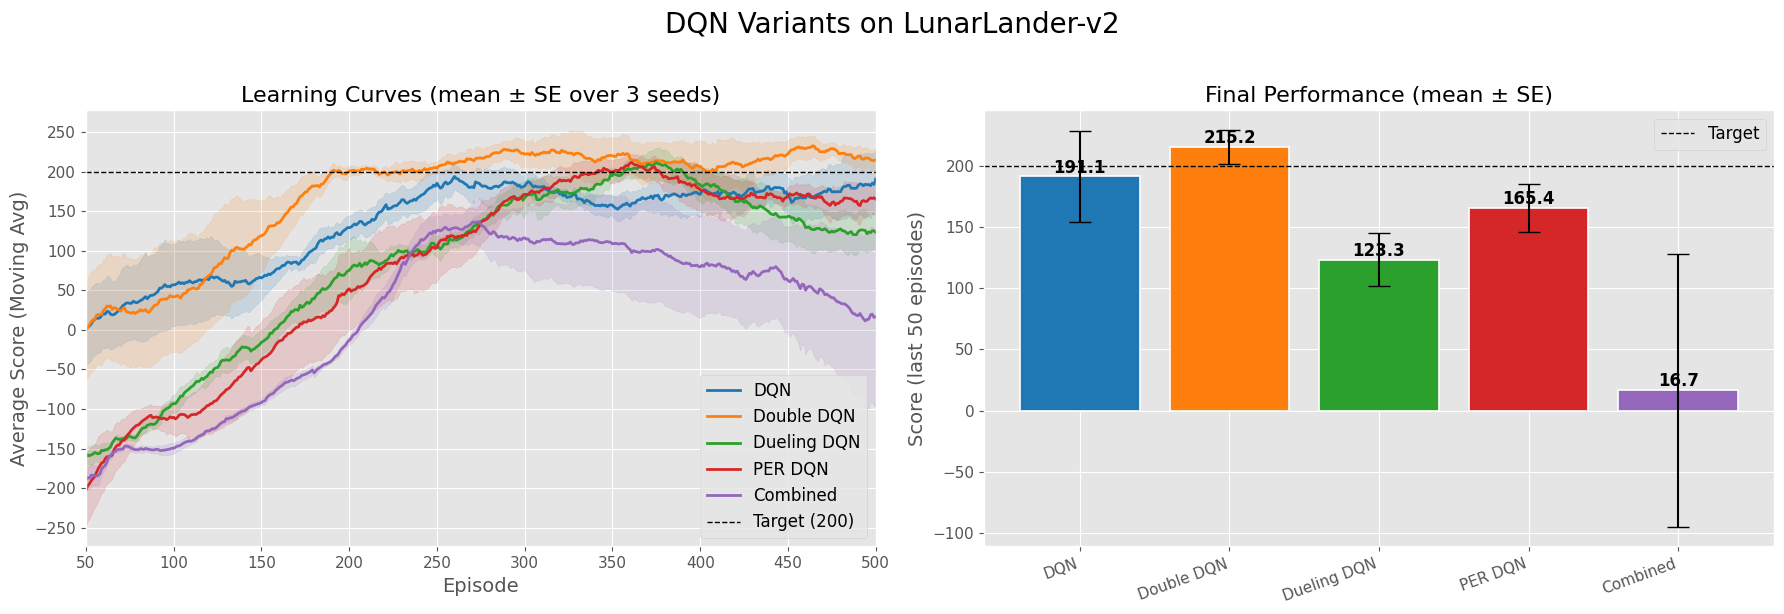
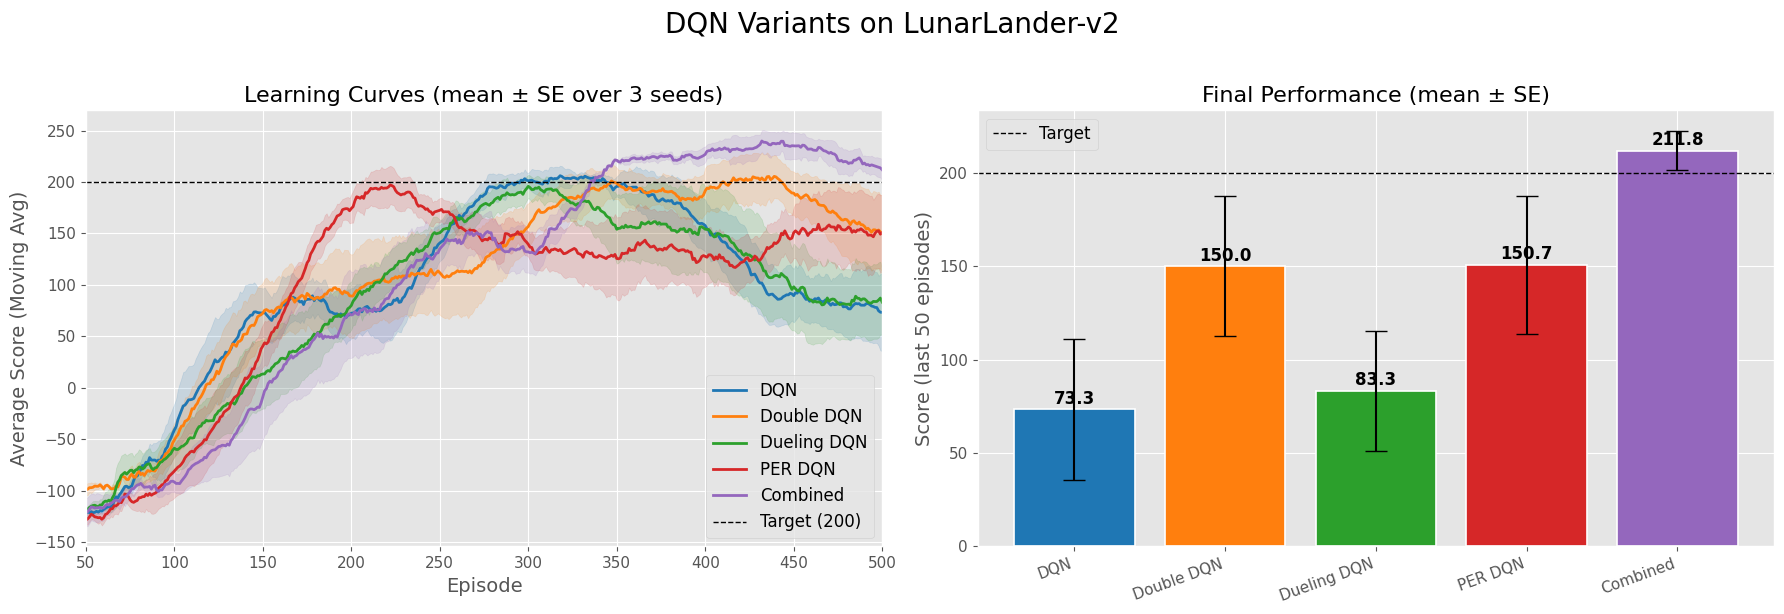
completed

diff --git a/HW1/README.md b/HW1/README.md
@@ -1,1 +1,111 @@
-![](image.png)
+# DRL Homework 1 – Value-Based Methods
+
+**Deep Reinforcement Learning (Spring 2026)**  
+Yashar Zafari Haqqi
+
+
+
+## Overview
+
+This repository contains my solution for the first homework assignment of the DRL course. The assignment covers:
+
+- **TD Learning with Linear Function Approximation** (theoretical derivations in `RL_HW1.pdf`)
+- **Bellman Operators & Residuals** (theoretical proofs)
+- **Half‑Rainbow DQN** on `LunarLander-v2` (practical implementation)
+
+The main deliverable is a Jupyter notebook (`404210253_YasharZafariHaqqi.ipynb`) that implements and compares five agents:
+
+| Agent            | Techniques                                      |
+|------------------|-------------------------------------------------|
+| DQN              | baseline deep Q‑network                         |
+| Double DQN       | decoupled action selection & evaluation         |
+| Dueling DQN      | separate value/advantage streams                |
+| PER DQN          | prioritised experience replay                   |
+| Combined         | Double + Dueling + PER (Half‑Rainbow)           |
+
+---
+
+## File Structure
+
+```
+HW1/
+├── 404210253_YasharZafariHaqqi.ipynb   # Main notebook with training code
+├── RL_HW1.pdf                           # Assignment problems (questions only)
+├── image.png                            # Training curves (all agents)
+├── halfrainbow_v3.mp4                   # Video of the trained Half‑Rainbow agent
+├── weights_DQN.pth                      # Saved weights for DQN
+├── weights_Double_DQN.pth               # Saved weights for Double DQN
+├── weights_Dueling_DQN.pth              # Saved weights for Dueling DQN
+├── weights_PER_DQN.pth                  # Saved weights for PER DQN
+├── weights_Combined.pth                 # Saved weights for Half‑Rainbow
+└── README.md                            # This file
+```
+
+---
+
+## How to Run
+
+1. **Install dependencies**  
+   The notebook requires `torch`, `gymnasium`, `numpy`, `matplotlib`, and `tqdm`.  
+   You can install them with:
+   ```bash
+   pip install torch gymnasium numpy matplotlib tqdm
+   ```
+
+2. **Launch the notebook**  
+   Open `404210253_YasharZafariHaqqi.ipynb` in Jupyter or VS Code and execute the cells sequentially.  
+   Training all agents from scratch may take several hours. The provided weight files allow you to skip training and directly evaluate the agents.
+
+3. **Loading pre‑trained weights**  
+   In the notebook, set the `load_weights` flag (or similar variable) to `True` and specify the corresponding `.pth` file.  
+   Example for the Combined agent:
+   ```python
+   agent.load_state_dict(torch.load('weights_Combined.pth'))
+   ```
+
+---
+
+## Results
+
+### Training Curves
+
+![Training curves](image.png)
+
+The learning curves show the average score (moving average) over 500 episodes, with ±1 standard error over 3 seeds.
+
+### Final Performance (mean ± SE over last 100 episodes)
+
+| Agent         | Score (mean ± SE) |
+|---------------|-------------------|
+| DQN           |  73.3 ± 37.5      |
+| Double DQN    | 150.0 ± 37.5      |
+| Dueling DQN   |  83.3 ± 32.1      |
+| PER DQN       | 150.7 ± 37.0      |
+| **Combined**  | **211.8 ± 10.5**  |
+
+The Half‑Rainbow (Combined) agent surpasses the LunarLander‑v2 solve threshold of 200 and achieves the lowest variance, demonstrating that the three improvements are complementary.
+
+### Video
+
+Below is a test run of the trained Half‑Rainbow agent:
+
+<video src="halfrainbow_v3.mp4" width="600" controls></video>
+
+*(If the video doesn't render inline, open the file directly.)*
+
+---
+
+## Notes
+
+- The theoretical solutions to the written problems are not included in this repository; they are in a separate PDF solution file (submitted separately).
+- Hyperparameters for all agents are detailed in the notebook.
+- The weights were saved after 500 episodes of training on a single machine (CPU/GPU). Make sure the environment version matches (`LunarLander-v2`, Box2D).
+
+---
+
+## References
+
+- Mnih et al. – Human‑level control through deep reinforcement learning (2015)  
+- van Hasselt et al. – Deep Reinforcement Learning with Double Q‑Learning (2016)  
+- Wang et al. – Dueling Network Architectures for Deep RL (2016)  
+- Schaul et al. – Prioritized Experience Replay (2016)